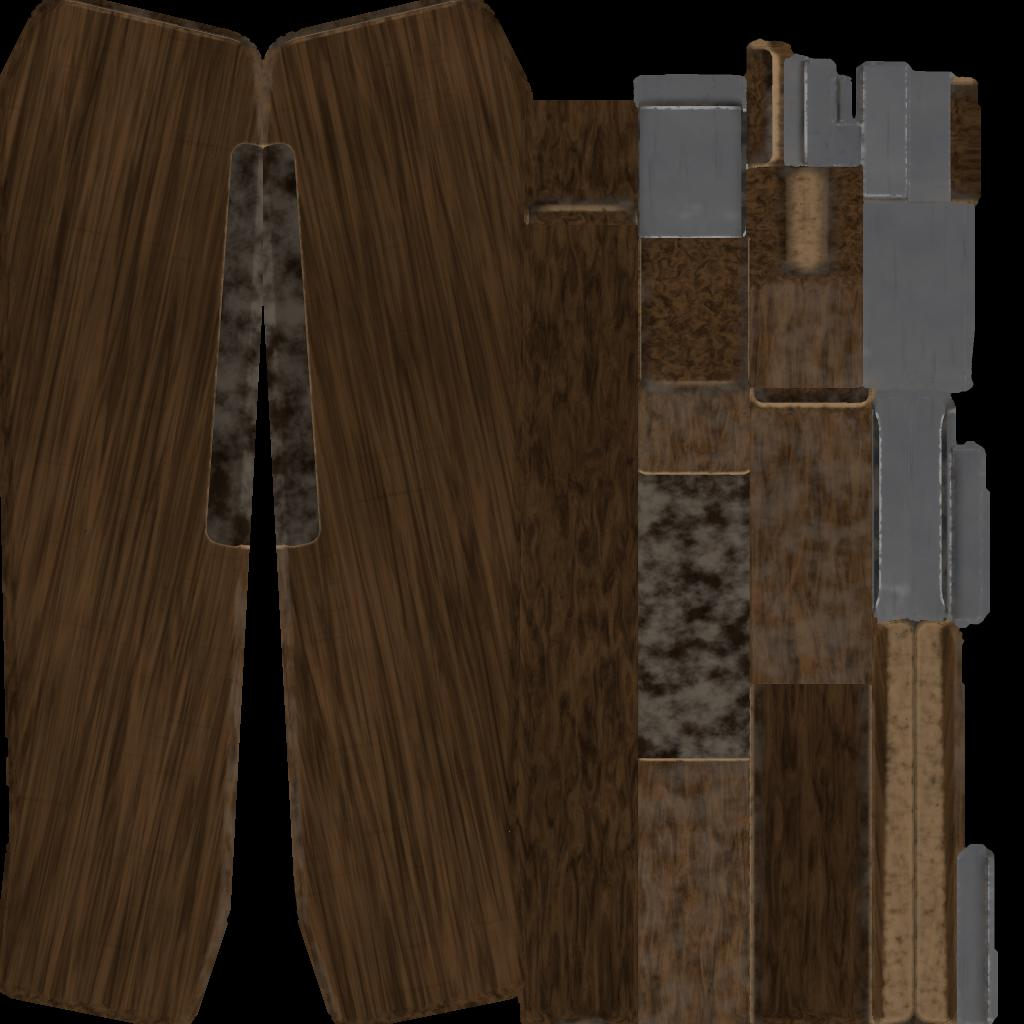
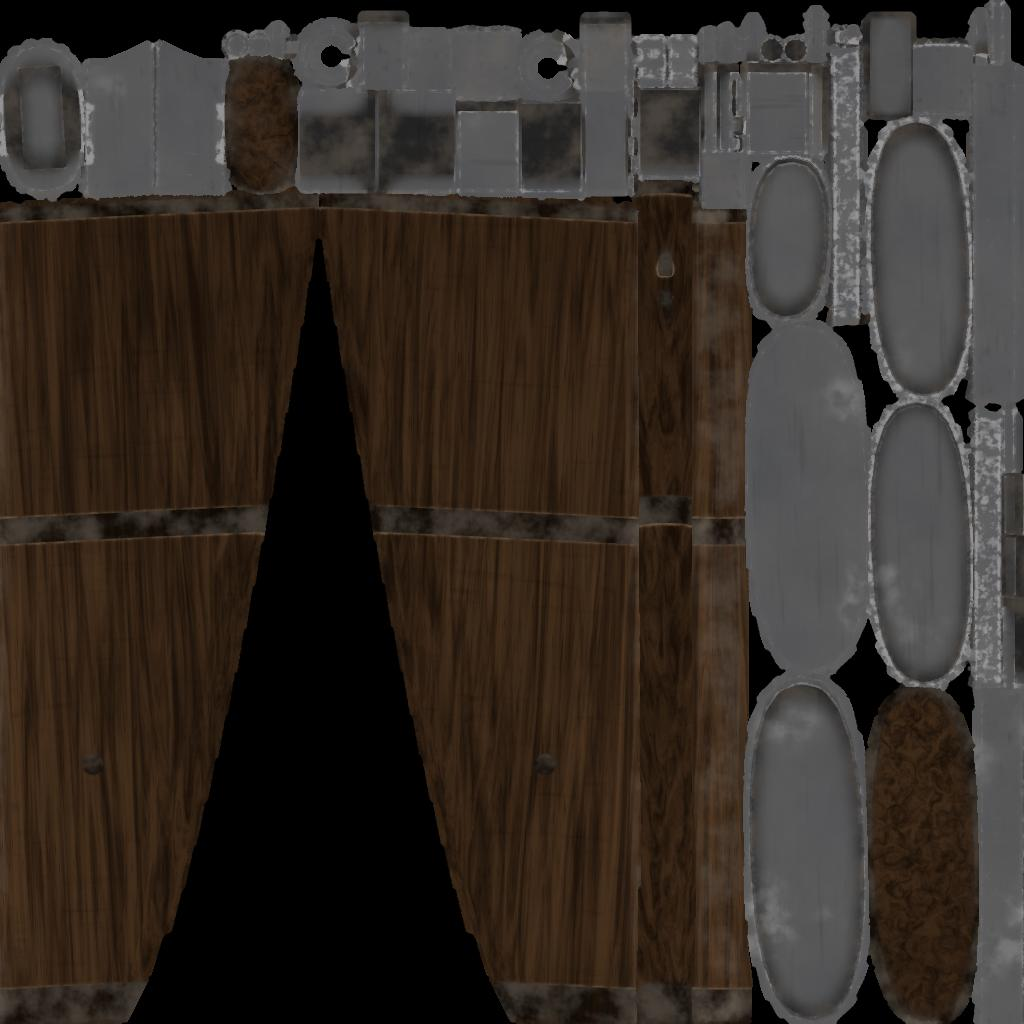
P-83: nowy model kabury-kolby (1.7.470)
Wąska szyjka ze stalowym okuciem i zaczepem w grzbiecie chwytu, korpus rozszerzony ku trzewikowi, linia prawie równoległa do lufy, zawias klapy, trzewik i kółko na pas. Statystyki bez zmian.

diff --git a/prototype/tools/gun_proc.py b/prototype/tools/gun_proc.py
@@ -2048,14 +2048,28 @@ def part_p64_long(spec):
 
 
 def part_p64_stock(spec):
-    """Kabura-kolba (jak przy APS): drewniana kabura z klapą dopięta zaczepem do grzbietu chwytu, stalowe okucie stopki."""
-    wd = M(wood, "p64_holster", tone=((0.022, 0.011, 0.005), (0.1, 0.05, 0.02)))
+    """Kabura-kolba (jak przy APS): wąska szyjka przy chwycie, płaski korpus rozszerzony ku trzewikowi, stalowe okucie z zaczepem w grzbiecie chwytu,
+    klapa kabury na zawiasie i stalowy trzewik ze strzemiączkiem. Linia grzbietu prawie równoległa do lufy, ok. 1,3 długości pistoletu."""
+    wd = M(wood, "p64_holster", tone=((0.016, 0.008, 0.004), (0.075, 0.036, 0.015)))
     small = mat("p83_small")
-    box("holster_clip", -16.0, -7.0, 10.0, 58.0, 6.0, small, bv=0.6, r=2.0)
-    prism("holster", fillet([(-15.0, 62.0, 4.0), (-48.0, 66.0, 10.0), (-262.0, 34.0, 14.0), (-290.0, 26.0, 10.0), (-292.0, -34.0, 10.0),
-                             (-262.0, -42.0, 14.0), (-58.0, 4.0, 10.0), (-15.0, 8.0, 4.0)]), -16.0, 16.0, wd, bv=2.0, seg=2)
-    prism("holster_lid", fillet([(-150.0, 52.0, 4.0), (-262.0, 37.0, 10.0), (-262.0, 25.0, 4.0), (-150.0, 40.0, 4.0)]), -17.0, 17.0, wd, bv=1.2, seg=2)
-    prism("butt_cap", fillet([(-288.0, 28.0, 6.0), (-298.0, 26.0, 4.0), (-300.0, -36.0, 4.0), (-290.0, -36.0, 6.0)]), -15.0, 15.0, small, bv=0.8, seg=1)
+    x0, x1 = -222.0, -30.0
+    top = lambda x: 62.0 + (x + 30.0) * 0.045
+    bot = lambda x: 30.0 - 56.0 * (max(0.0, -30.0 - x) / 192.0) ** 0.75
+    wid = lambda x: 8.5 + 4.5 * (max(0.0, -30.0 - x) / 192.0)
+    oval_loft("holster", x0, x1, top, bot, wid, wd, n=20, bv=1.2)
+    # okucie szyjki i zaczep: pierścień na drewnie, dwa policzki obejmujące grzbiet chwytu
+    oval_loft("holster_ferrule", -38.0, -22.0, lambda x: top(x) + 1.2, lambda x: bot(x) - 1.2, lambda x: wid(x) + 1.2, small, n=4, bv=0.6)
+    box("holster_lug", -24.0, -6.0, 34.0, 58.0, 5.0, small, bv=0.5, r=1.5)
+    for sy in (-1.0, 1.0):
+        box("holster_cheek", -24.0, -3.0, 40.0, 54.0, 1.4, small, bv=0.3, seg=1, y=sy * 7.4)
+    # klapa kabury: zawias w poprzek korpusu i zatrzask na boku
+    xh = -146.0
+    oval_loft("holster_hinge", xh - 3.0, xh + 3.0, lambda x: top(x) + 0.8, lambda x: bot(x) - 0.8, lambda x: wid(x) + 0.8, small, n=3, bv=0.4)
+    for sy in (-1.0, 1.0):
+        revolve("holster_rivet", [(sy * wid(-90.0), 0.0), (sy * wid(-90.0), 2.6), (sy * (wid(-90.0) + 1.3), 2.2), (sy * (wid(-90.0) + 1.3), 0.0)], (-90.0, 36.0), small, axis="Y", seg=12, bv=0.2)
+    # trzewik i strzemiączko pasa
+    oval_loft("butt_cap", x0 - 7.0, x0 + 3.0, lambda x: top(x0) + 1.5, lambda x: bot(x0) - 1.5, lambda x: wid(x0) + 1.2, small, n=4, bv=0.8)
+    swivel(-198.0, bot(-198.0) - 4.5, small, r=6.0)            # górny łuk wchodzi w drewno: kółko wisi na korpusie, nie w powietrzu
     return {"mount": "frame", "hides": []}
 
 

diff --git a/CHANGELOG.md b/CHANGELOG.md
@@ -513,3 +513,4 @@ wystarcza im historia gita. Serie PR-ów prowadzone własnym planem (np. `AUDIO_
 | 1.7.467 | 2026-11-01 | **Znacznik plucia Pijawki, Kapłan w jaskini 1.1, dziennik przedmiotów.** Przegląd dzienników: kwas to 15 z 19 upadków na B1, a leciał z wyprzedzeniem bez żadnego znaku, więc teraz cel ustala się na początku zapowiedzi, znacznik pokazuje miejsce lądowania jak u Żyły, a bot z niego schodzi. Kapłan budził się w 46–57. s pierwszej misji, więc przeszedł z obozu na półkę w jaskini, przed trzeci nieśmiertelnik (`ELITE_PLACEMENT_PLAN.md`). Dziennik sesji zapisuje zużyte przedmioty (`item`, `mission_end.items`, raport `session_progress.py`). |
 | 1.7.468 | 2026-11-01 | **Tablica wyników po polsku, podpowiedzi w dzienniku, szczelniejsze żądania klientów.** Tablica w kryjówce rysowała napisy z pominięciem tłumaczeń. Dziennik sesji zapisuje pokazane podpowiedzi (`hint`), więc playtest odróżni mechanikę odkrytą samodzielnie od podpowiedzianej. Klient nie może już zatrzymywać Stalkera bez strzału ani zgłaszać krzyku z pozycją spoza mapy. Poświata znacznika plucia Pijawki jest słabsza, bo w ciemnym B1 robiła jaskrawy prostokąt. |
 | 1.7.469 | 2026-11-01 | **Warsztat: pierwsze kroki nowego gracza.** Przy wyłączonym zużyciu stół konserwacji nie reaguje, a zestawu do czyszczenia nie ma w sklepie ani przy wyborze przedmiotu. Pracownia działa od pierwszej próbki, a tokarka od pierwszego schematu albo przy włączonym zużyciu. Dopóki drużyna nie ma żadnej części, ława otwiera się na M-83 z bębnem RPK oznaczonym jako polecany (`WORKSHOP_PLAN.md` §6). |
+| 1.7.470 | 2026-11-02 | **P-83: nowy model kabury-kolby.** Dotąd gruby klocek opadający od chwytu, dłuższy od całego pistoletu o ponad połowę. Teraz wąska szyjka ze stalowym okuciem i zaczepem w grzbiecie chwytu, korpus rozszerzony ku trzewikowi, linia prawie równoległa do lufy, zawias klapy, trzewik i strzemiączko. Statystyki bez zmian. |
